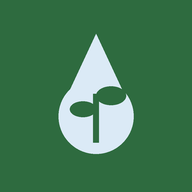
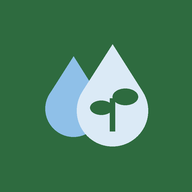
Add files via upload
Naamswijziging: Gietgenoten

Changed region(s): [[0.2188, 0.1875, 0.7812, 0.8125]]

diff --git a/index.html b/index.html
@@ -4,10 +4,12 @@
 <meta charset="utf-8">
 <meta name="viewport" content="width=device-width, initial-scale=1, viewport-fit=cover">
 <meta name="theme-color" content="#2E6B3F">
-<title>Plat &amp; Plant</title>
+<title>Gietgenoten</title>
 <link rel="manifest" href="manifest.webmanifest">
 <link rel="icon" href="icon-192.png">
 <link rel="apple-touch-icon" href="icon-192.png">
+<meta name="apple-mobile-web-app-capable" content="yes">
+<meta name="apple-mobile-web-app-title" content="Gietgenoten">
 <link rel="preconnect" href="https://fonts.googleapis.com">
 <link rel="preconnect" href="https://fonts.gstatic.com" crossorigin>
 <link href="https://fonts.googleapis.com/css2?family=Bricolage+Grotesque:opsz,wght@12..96,400;12..96,500;12..96,600;12..96,700&display=swap" rel="stylesheet">
@@ -163,10 +165,10 @@ label.f textarea{min-height:76px;resize:vertical}
 .toast button{background:none;border:0;color:var(--bg);font-weight:700;text-decoration:underline;padding:4px}
 .status-line{color:var(--muted);font-size:14px;margin-top:10px}
 
-/* Plat & Plant additions */
+/* Gietgenoten additions */
 .brand{display:flex;align-items:center;justify-content:space-between;margin:0 0 6px}
 .wordmark{font-weight:700;font-size:19px;letter-spacing:-.01em;color:var(--leaf)}
-.wordmark .amp{font-weight:400;font-style:italic;color:var(--water)}
+.wordmark .w1{color:var(--water)}
 .linkish{background:none;border:0;padding:0;color:var(--water);text-decoration:underline;font-size:inherit}
 .search-row{display:flex;gap:8px;align-items:flex-end}
 .search-row .btn{padding:11px 16px}
@@ -312,7 +314,7 @@ const localBackend = {
     for (const p of list) if (p && typeof p.id === "string") { await store.put(p); n++; }
     return { count: n };
   },
-  async exportAll() { return { app: "plat-en-plant", versie: 1, gemaakt: new Date().toISOString(), planten: await store.all() }; }
+  async exportAll() { return { app: "gietgenoten", versie: 1, gemaakt: new Date().toISOString(), planten: await store.all() }; }
 };
 
 /* Gedeelde lijst in de eigen Supabase-database van het huishouden */
@@ -452,7 +454,7 @@ const cloud = {
   async exportAll() {
     const plants = await this.list();
     await this.syncPhotos().catch(() => {});
-    return { app: "plat-en-plant", versie: 1, gemaakt: new Date().toISOString(),
+    return { app: "gietgenoten", versie: 1, gemaakt: new Date().toISOString(),
       planten: plants.map(p => ({ ...p, ...(state.photoCache[p.id] ? { foto: state.photoCache[p.id] } : {}) })) };
   }
 };
@@ -625,7 +627,7 @@ async function plantnetIdentify(blob, key, signal) {
 }
 
 /* ---------- state ---------- */
-const APP_VERSIE = "10 november 2026 (iPhone-fix)";
+const APP_VERSIE = "10 november 2026 (Gietgenoten)";
 const state = { stats: {}, monthTop: null, plants: [], tab: "today", loaded: false, loadError: "", offline: false, key: "", meldingen: { aan: false, stil: true }, members: [], photoCache: {} };
 const byId = id => state.plants.find(p => p.id === id);
 
@@ -636,7 +638,7 @@ function thumb(p, cls = "thumb") {
   return src ? `<img class="${cls}" src="${src}" alt="">` : `<div class="${cls} ph">${LEAF_SVG}</div>`;
 }
 function brandBar() {
-  return `<div class="brand"><span class="wordmark">Plat <span class="amp">&amp;</span> Plant</span><button class="icon-btn" data-settings aria-label="Instellingen">${GEAR_SVG}</button></div>`;
+  return `<div class="brand"><span class="wordmark"><span class="w1">Giet</span>genoten</span><button class="icon-btn" data-settings aria-label="Instellingen">${GEAR_SVG}</button></div>`;
 }
 function render() {
   document.querySelectorAll(".tab").forEach(b => b.setAttribute("aria-current", b.dataset.tab === state.tab ? "page" : "false"));
@@ -1074,7 +1076,7 @@ function settingsBody() {
     <label class="btn full file-btn" style="margin-top:10px">Reservekopie terugzetten<input type="file" accept="application/json,.json" id="importIn"></label>
     ${c.msg ? `<div class="note">${esc(c.msg)}</div>` : ""}
   </div>
-  <p class="hint">Plat &amp; Plant, versie ${APP_VERSIE}. ${isCloud() ? "De gedeelde lijst staat in de eigen database van jullie huishouden." : "Alles staat op dit toestel."} Informatie over onbekende planten komt van Wikipedia.</p>`;
+  <p class="hint">Gietgenoten, wie giet, geniet. Versie ${APP_VERSIE}. ${isCloud() ? "De gedeelde lijst staat in de eigen database van jullie huishouden." : "Alles staat op dit toestel."} Informatie over onbekende planten komt van Wikipedia.</p>`;
 }
 
 function memberRow(m, actions) {
@@ -1147,7 +1149,7 @@ function cloudCreateBody() {
   <p class="hint">Heb je de stappen uit de handleiding gedaan? Vul dan hieronder de gegevens in.</p>
   <label class="f">Project URL<input id="cUrl" value="${esc(c.url || "")}" placeholder="https://abcdefgh.supabase.co" autocomplete="off" spellcheck="false" inputmode="url"></label>
   <label class="f">Publishable key (of anon key)<input id="cKey" value="${esc(c.key || "")}" placeholder="sb_publishable_…" autocomplete="off" spellcheck="false"></label>
-  <label class="f">Naam van de lijst<input id="cName" value="${esc(c.name || "")}" placeholder="Bijv. Huize Plat" maxlength="60"></label>
+  <label class="f">Naam van de lijst<input id="cName" value="${esc(c.name || "")}" placeholder="Bijv. Huize Jansen" maxlength="60"></label>
   <label class="f">Jouw naam<input id="cMe" value="${esc(c.me || "")}" placeholder="Bijv. Matthijs" maxlength="40"></label>
   ${c.error ? `<div class="err">${esc(c.error)}</div>` : ""}
   ${c.busy ? `<div class="thinking"><span class="spin"></span>${esc(c.busy)}</div>` : `<button class="btn leaf full" style="margin-top:16px" data-cloud-create-go>Lijst aanmaken</button>`}`;
@@ -1294,8 +1296,8 @@ async function newInvite() {
 }
 async function shareInvite() {
   const link = inviteLink();
-  const text = `Doe mee met ${cloud.cfg.name} in Plat & Plant, dan houden we samen de planten bij:`;
-  if (navigator.share) { try { await navigator.share({ title: "Plat & Plant", text, url: link }); return; } catch (e) { if (e.name === "AbortError") return; } }
+  const text = `Doe mee met ${cloud.cfg.name} in Gietgenoten, dan houden we samen de planten bij:`;
+  if (navigator.share) { try { await navigator.share({ title: "Gietgenoten", text, url: link }); return; } catch (e) { if (e.name === "AbortError") return; } }
   copyText(link, "Link gekopieerd. Plak hem in WhatsApp.");
 }
 async function copyText(t, msg = "Gekopieerd") {
@@ -1366,7 +1368,7 @@ async function notifTest() {
     const reg = await swReady();
     if (!reg) throw 0;
     const due = state.plants.filter(p => waterStatus(p).daysLeft <= 0).map(p => p.label);
-    await reg.showNotification("Plat & Plant", {
+    await reg.showNotification("Gietgenoten", {
       body: due.length ? `Testmelding. Water nodig: ${due.join(", ")}.` : "Testmelding. Zo ziet een melding eruit.",
       icon: "icon-192.png", badge: "icon-192.png", tag: "test",
       silent: !!state.meldingen.stil, ...(state.meldingen.stil ? {} : { vibrate: [200, 100, 200] })
@@ -1624,10 +1626,10 @@ async function exportBackup() {
   sheetCtx.msg = "Reservekopie maken…"; renderSheet();
   try { data = await api.exportAll(); } catch (e) { sheetCtx.msg = e?.msg || "Dat lukte niet."; renderSheet(); return; }
   const blob = new Blob([JSON.stringify(data)], { type: "application/json" });
-  const name = `plat-en-plant-${todayStr()}.json`;
+  const name = `gietgenoten-${todayStr()}.json`;
   const file = new File([blob], name, { type: "application/json" });
   if (navigator.canShare?.({ files: [file] })) {
-    try { await navigator.share({ files: [file], title: "Reservekopie Plat & Plant" }); sheetCtx.msg = "Reservekopie gedeeld."; renderSheet(); return; }
+    try { await navigator.share({ files: [file], title: "Reservekopie Gietgenoten" }); sheetCtx.msg = "Reservekopie gedeeld."; renderSheet(); return; }
     catch (e) { if (e.name === "AbortError") return; }
   }
   const a = document.createElement("a");
@@ -1639,13 +1641,13 @@ async function exportBackup() {
 async function importBackup(file) {
   try {
     const j = JSON.parse(await file.text());
-    if (j?.app !== "plat-en-plant" || !Array.isArray(j.planten)) throw 0;
+    if (!["plat-en-plant", "gietgenoten"].includes(j?.app) || !Array.isArray(j.planten)) throw 0;
     if (!confirm(`Reservekopie met ${j.planten.length} planten terugzetten? De planten die nu in de ${isCloud() ? "gedeelde lijst" : "app"} staan worden vervangen${isCloud() ? ", ook voor je huisgenoten" : ""}.`)) return;
     sheetCtx.msg = "Bezig met terugzetten…"; renderSheet();
     const r = await api.importAll(j.planten);
     await reload();
     sheetCtx.msg = `${r.count} planten teruggezet.`;
-  } catch (e) { sheetCtx.msg = e?.msg || "Dit bestand is geen reservekopie van Plat & Plant."; }
+  } catch (e) { sheetCtx.msg = e?.msg || "Dit bestand is geen reservekopie van Gietgenoten."; }
   renderSheet();
 }
 

diff --git a/handleiding.html b/handleiding.html
@@ -3,7 +3,7 @@
 <head>
 <meta charset="utf-8">
 <meta name="viewport" content="width=device-width, initial-scale=1, viewport-fit=cover">
-<title>Gedeelde lijst instellen – Plat &amp; Plant</title>
+<title>Handleiding – Gietgenoten</title>
 <link rel="icon" href="icon-192.png">
 <style>
 :root{--bg:#F1F3EE;--surface:#fff;--ink:#1E2A22;--muted:#5B685F;--line:#D6DDD3;--leaf:#2E6B3F;--leaf-soft:#DCEBDD;--warn:#B0502A;color-scheme:light}
@@ -28,6 +28,7 @@ a{color:var(--leaf)}
 </head>
 <body>
 <main>
+<p style="margin:0 0 4px;font-weight:700;font-size:19px"><span style="color:#2470B3">Giet</span><span style="color:var(--leaf)">genoten</span></p>
 <h1>Gedeelde lijst instellen</h1>
 <p class="lead">Voor de beheerder van het huishouden. Je maakt een eigen, gratis database bij Supabase, zodat alle huisgenoten dezelfde planten zien. Dit kost ongeveer een half uur en je hebt geen creditcard nodig. Doe het bij voorkeur op een laptop.</p>
 <p class="lead" style="margin-top:-12px">Ga direct naar: <a href="#iphone">De app op je iPhone zetten</a>, <a href="#android">De app op je Android-telefoon zetten</a> of <a href="#meldingen">Meldingen op een vast tijdstip</a>.</p>
@@ -35,7 +36,7 @@ a{color:var(--leaf)}
 <li><h2>Maak een gratis account</h2>
 <p>Ga naar <a href="https://supabase.com" target="_blank" rel="noopener">supabase.com</a>, klik op <b>Start your project</b> en maak een account aan. Inloggen met GitHub mag ook.</p></li>
 <li><h2>Maak een project aan</h2>
-<p>Klik op <b>New project</b>. Vul als naam <code>plat-en-plant</code> in. Laat bij Database Password een wachtwoord genereren; dat heb je voor de app niet nodig. Kies bij Region <b>Central EU (Frankfurt)</b>, zodat jullie gegevens in Europa staan. Klik op <b>Create new project</b> en wacht een paar minuten.</p></li>
+<p>Klik op <b>New project</b>. Vul als naam bijvoorbeeld <code>gietgenoten</code> in. Laat bij Database Password een wachtwoord genereren; dat heb je voor de app niet nodig. Kies bij Region <b>Central EU (Frankfurt)</b>, zodat jullie gegevens in Europa staan. Klik op <b>Create new project</b> en wacht een paar minuten.</p></li>
 <li><h2>Richt de database in</h2>
 <p>Kopieer het setup-script met de knop hieronder. Open in Supabase links <b>SQL Editor</b>, plak het script en klik op <b>Run</b>. Je ziet dan Success.</p>
 <button class="copy" data-file="supabase-setup.sql">Setup-script kopiëren</button> <span></span>
@@ -46,7 +47,7 @@ a{color:var(--leaf)}
 <p>Klik bovenin op <b>Connect</b>, of ga naar <b>Project Settings</b> en dan <b>API Keys</b>. Je hebt nodig: de <b>Project URL</b> (zoals <code>https://abcdefgh.supabase.co</code>) en de <b>Publishable key</b> (begint met <code>sb_publishable_</code>; bij oudere projecten heet hij <b>anon key</b>).</p>
 <p class="warn">Gebruik nooit de secret key of service_role key. Die geeft volledige toegang en hoort niet in de app.</p></li>
 <li><h2>Maak de lijst aan in de app</h2>
-<p>Open Plat &amp; Plant, tik op het tandwiel en kies <b>Gedeelde lijst maken</b>. Plak de twee gegevens, vul de naam van de lijst en je eigen naam in, en tik op <b>Lijst aanmaken</b>.</p>
+<p>Open Gietgenoten, tik op het tandwiel en kies <b>Gedeelde lijst maken</b>. Plak de twee gegevens, vul de naam van de lijst en je eigen naam in, en tik op <b>Lijst aanmaken</b>.</p>
 <p>Je krijgt een <b>herstelcode</b>. Bewaar die goed: als je je telefoon kwijtraakt, word je daarmee opnieuw beheerder. Staan er al planten op je telefoon, dan kun je die meteen meenemen.</p></li>
 <li><h2>Nodig je huisgenoten uit</h2>
 <p>Tik op <b>Uitnodigingslink delen</b> en stuur de link via WhatsApp. Huisgenoten openen de link, typen hun naam en vragen toegang. Jij ziet de aanvraag in de app en tikt op <b>Accepteren</b>.</p>
@@ -63,13 +64,13 @@ a{color:var(--leaf)}
 <li><h2>Kies Zet op beginscherm</h2>
 <p>Scrol in het menu naar beneden en tik op <b>Zet op beginscherm</b>. Staat er een schakelaar <b>Open als webapp</b>, zet die dan aan. Tik rechtsboven op <b>Voeg toe</b>. Het icoon met de waterdruppel staat nu tussen je apps.</p></li>
 <li><h2>Open de app vanaf je beginscherm</h2>
-<p>Sluit Safari en tik op het icoon <b>Plat &amp; Plant</b> op je beginscherm. De app opent over het hele scherm, zonder adresbalk. Gebruik vanaf nu altijd dit icoon, niet Safari.</p></li>
+<p>Sluit Safari en tik op het icoon <b>Gietgenoten</b> op je beginscherm. De app opent over het hele scherm, zonder adresbalk. Gebruik vanaf nu altijd dit icoon, niet Safari.</p></li>
 <li><h2>Doe mee met de lijst</h2>
 <p>Kopieer de uitnodigingslink opnieuw uit WhatsApp (ingedrukt houden en <b>Kopieer</b>). Tik in de app op het tandwiel en kies <b>Meedoen met een lijst</b>. Plak de link, vul je naam in en tik op <b>Toegang vragen</b>.</p>
 <p>De beheerder krijgt je aanvraag te zien. Zodra hij je accepteert, verschijnen de planten vanzelf. Je kunt ook bij het tandwiel op <b>Opnieuw controleren</b> tikken.</p></li>
 <li><h2>Zet de meldingen aan</h2>
 <p>Hiervoor heb je iOS 16.4 of nieuwer nodig. Je ziet je versie in Instellingen, Algemeen, Info. Tik in de app op het tandwiel, kies bij Meldingen een tijdstip en tik op <b>Meldingen aanzetten</b>. Tik op <b>Sta toe</b> als je iPhone daarom vraagt. Met <b>Testmelding sturen</b> zie je binnen vijf minuten of het werkt.</p>
-<p>Geluid en hoe de melding eruitziet, regel je ook in je iPhone zelf: Instellingen, Meldingen, Plat &amp; Plant. Staat er een focusmodus aan, zoals Niet storen of Slaap, dan kan die de melding tegenhouden.</p></li>
+<p>Geluid en hoe de melding eruitziet, regel je ook in je iPhone zelf: Instellingen, Meldingen, Gietgenoten. Staat er een focusmodus aan, zoals Niet storen of Slaap, dan kan die de melding tegenhouden.</p></li>
 </ol>
 <div class="box">
 <h2>Let op</h2>
@@ -87,11 +88,11 @@ a{color:var(--leaf)}
 <p>Tik in Chrome rechtsboven op de <b>drie puntjes</b> en kies <b>App installeren</b>. Zie je alleen <b>Toevoegen aan startscherm</b>, kies dan die en daarna <b>Installeren</b>. Wacht een paar seconden tot je melding krijgt dat de app is geïnstalleerd.</p>
 <p>Kies niet allebei, anders krijg je twee icoontjes.</p></li>
 <li><h2>Open de app vanaf je startscherm</h2>
-<p>Tik op het icoon <b>Plat &amp; Plant</b>. De app opent over het hele scherm, zonder adresbalk. Opent hij toch met een adresbalk, dan is het een snelkoppeling geworden. Verwijder dat icoon en probeer stap 3 opnieuw met <b>App installeren</b>. Je toegang tot de lijst raak je daarbij niet kwijt.</p></li>
+<p>Tik op het icoon <b>Gietgenoten</b>. De app opent over het hele scherm, zonder adresbalk. Opent hij toch met een adresbalk, dan is het een snelkoppeling geworden. Verwijder dat icoon en probeer stap 3 opnieuw met <b>App installeren</b>. Je toegang tot de lijst raak je daarbij niet kwijt.</p></li>
 <li><h2>Zet de meldingen aan</h2>
 <p>Tik in de app op het tandwiel, kies bij Meldingen een tijdstip en tik op <b>Meldingen aanzetten</b>. Tik op <b>Toestaan</b> als je telefoon daarom vraagt. Met <b>Testmelding sturen</b> zie je binnen vijf minuten of het werkt.</p>
 <p>Gebruik je Brave? Zet dan eerst in Brave bij Instellingen, Privacy en beveiliging de optie <b>Google-services voor pushberichten gebruiken</b> aan.</p>
-<p>Geluid en trillen regel je ook in je telefoon zelf: Instellingen, Apps, Plat &amp; Plant (of Chrome), Meldingen. Staat batterijbesparing heel streng ingesteld, dan kan een melding later komen.</p></li>
+<p>Geluid en trillen regel je ook in je telefoon zelf: Instellingen, Apps, Gietgenoten (of Chrome), Meldingen. Staat batterijbesparing heel streng ingesteld, dan kan een melding later komen.</p></li>
 </ol>
 <div class="box">
 <h2>Let op</h2>
@@ -110,7 +111,7 @@ a{color:var(--leaf)}
 <li><h2>Zet Verify JWT uit</h2>
 <p>Open de functie plat-push en ga naar de instellingen of details van de functie. Zet <b>Verify JWT</b> (soms <b>Enforce JWT verification</b>) uit en sla op. De functie beveiligt zichzelf met een eigen geheime code, die alleen jullie database kent.</p></li>
 <li><h2>Koppel de app</h2>
-<p>Open Plat &amp; Plant op de telefoon waarop jij beheerder bent. Tik op het tandwiel, bij Meldingen op een vast tijdstip op <b>Instellen</b> en daarna op <b>Koppelen</b>.</p></li>
+<p>Open Gietgenoten op de telefoon waarop jij beheerder bent. Tik op het tandwiel, bij Meldingen op een vast tijdstip op <b>Instellen</b> en daarna op <b>Koppelen</b>.</p></li>
 <li><h2>Iedereen kiest zijn tijd</h2>
 <p>Iedere huisgenoot tikt op het tandwiel, kiest een tijdstip tussen 06:00 en 22:00 en tikt op <b>Meldingen aanzetten</b>. Met <b>Testmelding sturen</b> zie je binnen vijf minuten of het werkt.</p>
 <p>Op een iPhone werkt dit alleen als de app op het beginscherm staat en vanaf daar is geopend (zie <a href="#iphone">De app op je iPhone zetten</a>). In de browser Brave moet bij Instellingen, Privacy en beveiliging de optie <b>Google-services voor pushberichten gebruiken</b> aan staan.</p></li>

diff --git a/sw.js b/sw.js
@@ -1,4 +1,4 @@
-const CACHE = "platplant-v5";
+const CACHE = "gietgenoten-v6";
 const FILES = ["./", "./index.html", "./planten-db.js", "./manifest.webmanifest", "./icon-192.png", "./icon-512.png"];
 
 self.addEventListener("install", e => { e.waitUntil(caches.open(CACHE).then(c => c.addAll(FILES))); self.skipWaiting(); });
@@ -114,7 +114,7 @@ function dueMessage(plants, now) {
   if (lines.length > 7) shown.push(`en nog ${lines.length - 7} andere`);
   if (foodOnly.length) shown.push(`Voeding bij de volgende waterbeurt: ${namesText(foodOnly.map(p => p.label || "Plant"))}`);
   const title = water.length === 1 ? `${water[0].label || "Een plant"} heeft water nodig`
-    : water.length ? `${water.length} planten hebben water nodig` : "Plat & Plant";
+    : water.length ? `${water.length} planten hebben water nodig` : "Gietgenoten";
   return { title, body: shown.length ? shown.join("\n") : "Alle planten hebben op dit moment genoeg water.", count: water.length };
 }
 function showDue(plants, settings) {
@@ -134,7 +134,7 @@ async function onPush() {
   db.close();
 }
 self.addEventListener("push", e => {
-  e.waitUntil(onPush().catch(() => self.registration.showNotification("Plat & Plant", { body: "Bekijk welke planten water nodig hebben.", icon: "icon-192.png", tag: "water" })));
+  e.waitUntil(onPush().catch(() => self.registration.showNotification("Gietgenoten", { body: "Bekijk welke planten water nodig hebben.", icon: "icon-192.png", tag: "water" })));
 });
 self.addEventListener("periodicsync", e => { if (e.tag === "plant-check") e.waitUntil(checkPlants().catch(() => {})); });
 self.addEventListener("notificationclick", e => {
